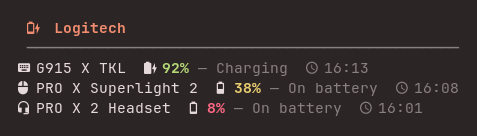
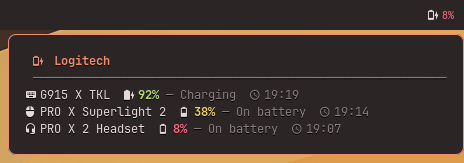
tooltip: the frame goes, and the one that stays pins its font
The tooltip was drawn two ways for the same content. --frame's box was
the second: more code, more documentation, more screenshots — and it only
lined up when the pinned font was a complete Mono Nerd Font. The Arch
package ttf-jetbrains-mono-nerd does NOT ship that family, so the default
fell back to the system's proportional font without saying so and the box
came out ragged.

One shape stays, and it pins the font. The pin is not decoration: the
rules are made of ─, which in a proportional font is nearly twice as wide
as a letter, so the tooltip sized itself to the rules and grew a dead
margin to the right of the text — 530px of box for 370px of content.
Waybar draws the tooltip in a GTK window that IGNORES font-family from
CSS (tested: five selector variants and gtk-font-name, none of them
work), so the markup is the only place this can be said.

The default font is a LIST of families, not one name: Pango tries them in
order and falls through to the next when one is not installed. That way a
family name that does not exist stops being a silent trap.

--frame and --frame-font are still accepted so an existing config keeps
working: --frame does nothing, --frame-font is an alias for the new
--tooltip-font. Both are marked deprecated in the header, with the why.

Changed region(s): [[0.0, 0.1471, 1.0, 1.0], [0.0603, 0.3235, 0.9655, 0.4118], [0.9052, 0.0588, 0.9957, 0.1471]]

diff --git a/README.md b/README.md
@@ -5,7 +5,26 @@
 
 logibar shows the battery level of your Logitech Lightspeed devices — keyboard, mouse and headset — in your status bar. It runs on Waybar and on the Omarchy shell (Quickshell). It reads each battery over HID++, and it does not need a daemon from the vendor. It refreshes when a device wakes, goes to sleep, or when a charge cycle begins.
 
-![The Omarchy panel: three devices with battery meters](screenshots/omarchy-panel.png)
+The same core drives both frontends, so a number reads the same on either one:
+
+| The Omarchy shell plugin | The Waybar module |
+| :---: | :---: |
+| <img src="screenshots/omarchy-desktop.png" alt="logibar in the Omarchy shell: the bar face and the battery panel"> | <img src="screenshots/waybar-desktop.png" alt="logibar in Waybar: the bar face and the battery tooltip"> |
+
+## Contents
+
+- [Features](#features)
+- [Supported devices](#supported-devices)
+- [Requirements](#requirements)
+- [Installation](#installation)
+- [Quick start](#quick-start)
+- [Omarchy shell plugin](#omarchy-shell-plugin)
+- [Configuration](#configuration)
+- [Structured JSON output](#structured-json-output)
+- [How it works](#how-it-works)
+- [Add a device](#add-a-device)
+- [Troubleshooting](#troubleshooting)
+- [Related](#related)
 
 ## Features
 
@@ -153,10 +172,6 @@ The three original modules still work, and they now share the colors of the comb
 
 The plugin in [`omarchy/`](omarchy/) is a native widget for the bar of the [Omarchy](https://github.com/basecamp/omarchy) shell. The face of the bar shows the same short summary as Waybar. A click opens a panel with one row for each device. The row shows the name, an animated battery meter, the charge, the charging state, and the time of the last update.
 
-<p align="center">
-  <img src="screenshots/omarchy-desktop.png" alt="logibar in the Omarchy bar, with its panel open" width="960">
-</p>
-
 ![The logibar face in the Omarchy bar](screenshots/omarchy-bar.png)
 
 ![The Omarchy panel](screenshots/omarchy-panel.png)
@@ -187,6 +202,13 @@ Mouse buttons: **left** opens the panel, **middle** refreshes the panel. The wid
 
 > [!TIP]
 > After you edit a file in `omarchy/`, run `omarchy restart shell`. A rescan of the plugins does not compile the QML again.
+
+The plugin also answers the shell's IPC, so a keybind or a script can drive it without the mouse:
+
+```bash
+qs ipc call mryll.logibar toggle    # open or close the panel
+qs ipc call mryll.logibar refresh   # fetch now, without opening anything
+```
 
 ## Configuration
 
@@ -456,10 +478,10 @@ logibar-status --json | jq
 
 ## Related
 
-- [claudebar](https://github.com/mryll/claudebar) — Claude AI usage widget for Waybar
-- [codexbar](https://github.com/mryll/codexbar) — OpenAI Codex usage widget for Waybar
-- [meteobar](https://github.com/mryll/meteobar) — Weather widget for Waybar (Open-Meteo)
-- [tickerbar](https://github.com/mryll/tickerbar) — Multi-market price ticker for Waybar (crypto, stocks, forex)
-- [Solaar](https://github.com/pwr-Solaar/Solaar) — Full-featured Logitech device manager (much heavier, GUI-based)
-- [Omarchy](https://github.com/basecamp/omarchy) — Beautiful, modern & opinionated Linux distribution
-- [Waybar](https://github.com/Alexays/Waybar) — Status bar for Wayland compositors
+- [claudebar](https://github.com/mryll/claudebar) — Claude AI plan usage
+- [codexbar](https://github.com/mryll/codexbar) — OpenAI Codex subscription usage
+- [meteobar](https://github.com/mryll/meteobar) — the weather, from Open-Meteo
+- [printbar](https://github.com/mryll/printbar) — any printer: supplies, trays and queue
+- [tickerbar](https://github.com/mryll/tickerbar) — prices of crypto, stocks, indices, commodities and forex
+- [Omarchy](https://github.com/basecamp/omarchy) — the Linux setup for these widgets
+- [Waybar](https://github.com/Alexays/Waybar) — the status bar for Wayland
